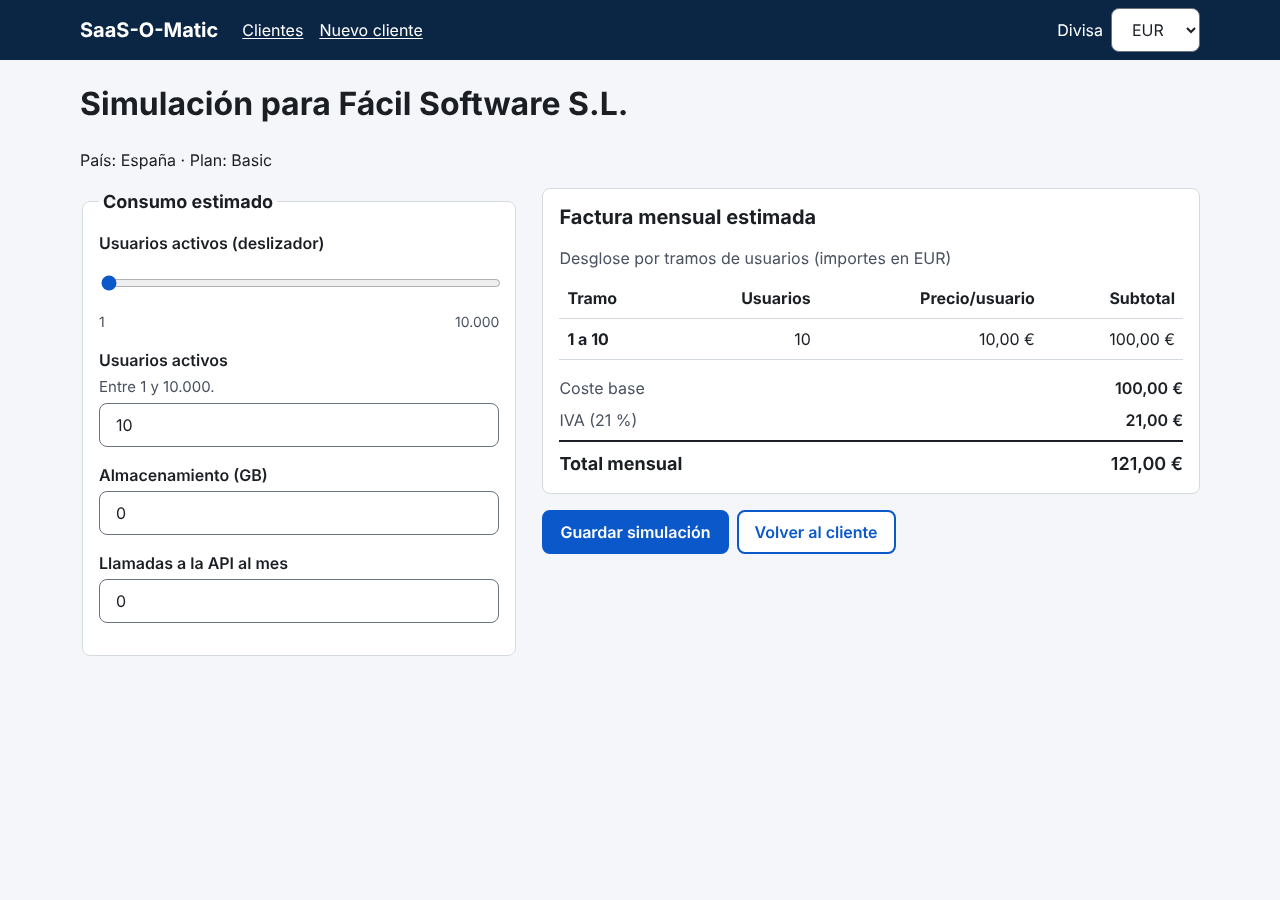
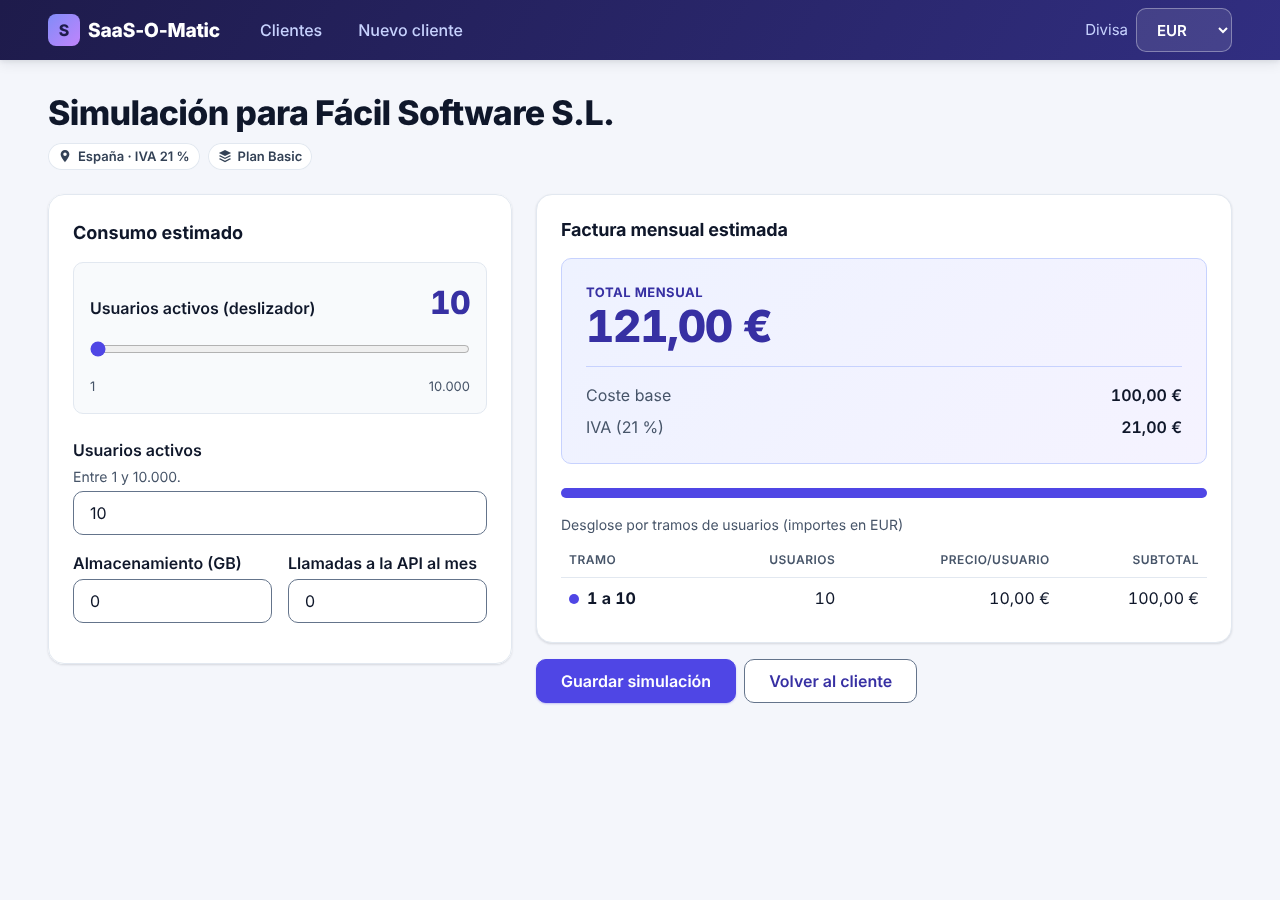
docs: añadir la revisión contra el documento original y actualizar capturas

diff --git a/ai-workspace/verificacion-final.md b/ai-workspace/verificacion-final.md
@@ -127,3 +127,49 @@ sincronizados y `EL → GR`.
 - **`better-sqlite3` 13.2.0** se publicó el 14/11/2026. Se eligió porque es la primera línea que trae los
   binarios dentro del paquete. Alternativa más veterana: 12.11.x (descarga el binario en la instalación).
 - **NVDA** (C.17) queda para revisión manual.
+
+---
+
+# Revisión contra el documento original del reto (19/11/2026, tras el rediseño visual)
+
+Segunda verificación completa, esta vez requisito a requisito del enunciado (`Prueba Devs con IA`),
+sobre la versión con el rediseño visual. Base de datos recreada desde cero, VATcomply y open.er-api.com reales.
+
+## 2.A Backend
+
+| Requisito del enunciado | Evidencia | Estado |
+|---|---|---|
+| Node.js (TypeScript) + SQLite | Express 5 + better-sqlite3 | ✔ |
+| `POST /customers` con empresa, identificador fiscal, email, país y plan | Alta real de clientes de ES, FR y SE | ✔ |
+| Validación algorítmica estricta del identificador si el país es España | DNI, NIE, NIF K y CIF falsos → 422; formato desconocido → 422 | ✔ |
+| `POST /simulations` (cliente, usuarios, almacenamiento, llamadas API) persistido | Fila comprobada en la tabla `simulations` | ✔ |
+| Tarificación acumulativa por tramos (10 € / 8 € / 5 €) | Ejemplo del enunciado: 15 usuarios = 140 €; 120 usuarios = 770 € | ✔ |
+| Sumar el IVA del país del cliente | ES 21 % → 169,40 €; FR 20 % → 168,00 €; SE 25 % → 962,50 € | ✔ |
+
+## 2.B Frontend
+
+| Requisito del enunciado | Evidencia | Estado |
+|---|---|---|
+| API pública de tipos de cambio y cambio de divisa en tiempo real | USD 185,90 US$ y GBP 141,28 GBP para 169,40 € | ✔ |
+| Buscador por nombre de empresa o identificador fiscal | Nombre sin tildes («facil») y NIF parcial con guion («b-123»); estado vacío | ✔ |
+| Detalle del cliente en tarjetas responsive con historial de simulaciones | 360 / 768 / 1280 px sin desbordes | ✔ |
+| Slider con proyección de la factura en tiempo real en la divisa elegida | 10 / 11 / 50 / 51 usuarios → 100 / 108 / 420 / 425 €; slider con teclado | ✔ |
+| Interfaz responsive y estados de carga/error con la API externa | Sin divisas → aviso y EUR; backend parado → error con «Reintentar» | ✔ |
+
+## Calidad y accesibilidad tras el rediseño
+
+- 239 tests · lint y typecheck sin errores · ningún fichero > 200 líneas · 0 `any`.
+- axe sin violaciones en 5 vistas × 3 anchos · recorrido solo con teclado con foco visible.
+- Lighthouse: **accesibilidad 100** y **buenas prácticas 100** en las 4 vistas.
+
+## Defectos encontrados en esta revisión y corregidos
+
+1. **Subtotal oculto en móvil.** Con el rediseño, la tabla de desglose medía hasta 348 px en un espacio de
+   278 px (pantalla de 360 px): la columna «Subtotal» quedaba fuera de la vista. Se permite partir
+   «Precio/usuario» y se compacta la tabla solo en móvil, manteniendo el punto de color, que sirve de
+   leyenda de la barra de tramos. Medido con 10, 60 y 10.000 usuarios: cabe en los tres casos.
+2. **Error en consola en todas las páginas** (`favicon.ico` 404, detectado por Lighthouse). Se añade un
+   favicon SVG con el logotipo del rediseño. Buenas prácticas: de 96 a 100.
+3. **Script de verificación desactualizado.** `flujos-navegador.cjs` usaba una clase de CSS que el rediseño
+   eliminó y tenía una carrera con el debounce del buscador (leía resultados de la búsqueda anterior). Ahora
+   espera al resultado concreto y localiza los importes por su etiqueta visible, no por clases de estilo.

diff --git a/ai-workspace/registro-desarrollo.md b/ai-workspace/registro-desarrollo.md
@@ -349,3 +349,12 @@ era correcto nunca se confirmaba. Para el comercial era como si no se comprobara
 **Verificación:** 16 tests nuevos (239 en total) · navegador real: error al salir del campo, confirmación al
 corregir, axe sin violaciones (incluido contraste del mensaje verde) · capturas `alta-nif-error.png` y
 `alta-nif-valido.png` · lint y typecheck sin errores.
+
+---
+
+## Revisión completa contra el documento original (tras el rediseño visual)
+
+Se repasaron uno a uno los requisitos del enunciado sobre la versión con el rediseño visual, con base de
+datos nueva y servicios externos reales. Todo cumple; se corrigieron tres defectos (subtotal oculto en móvil,
+error de favicon en consola y un script de verificación desactualizado). Detalle y tabla de trazabilidad en
+[`verificacion-final.md`](./verificacion-final.md#revisión-contra-el-documento-original-del-reto-19112026-tras-el-rediseño-visual).
